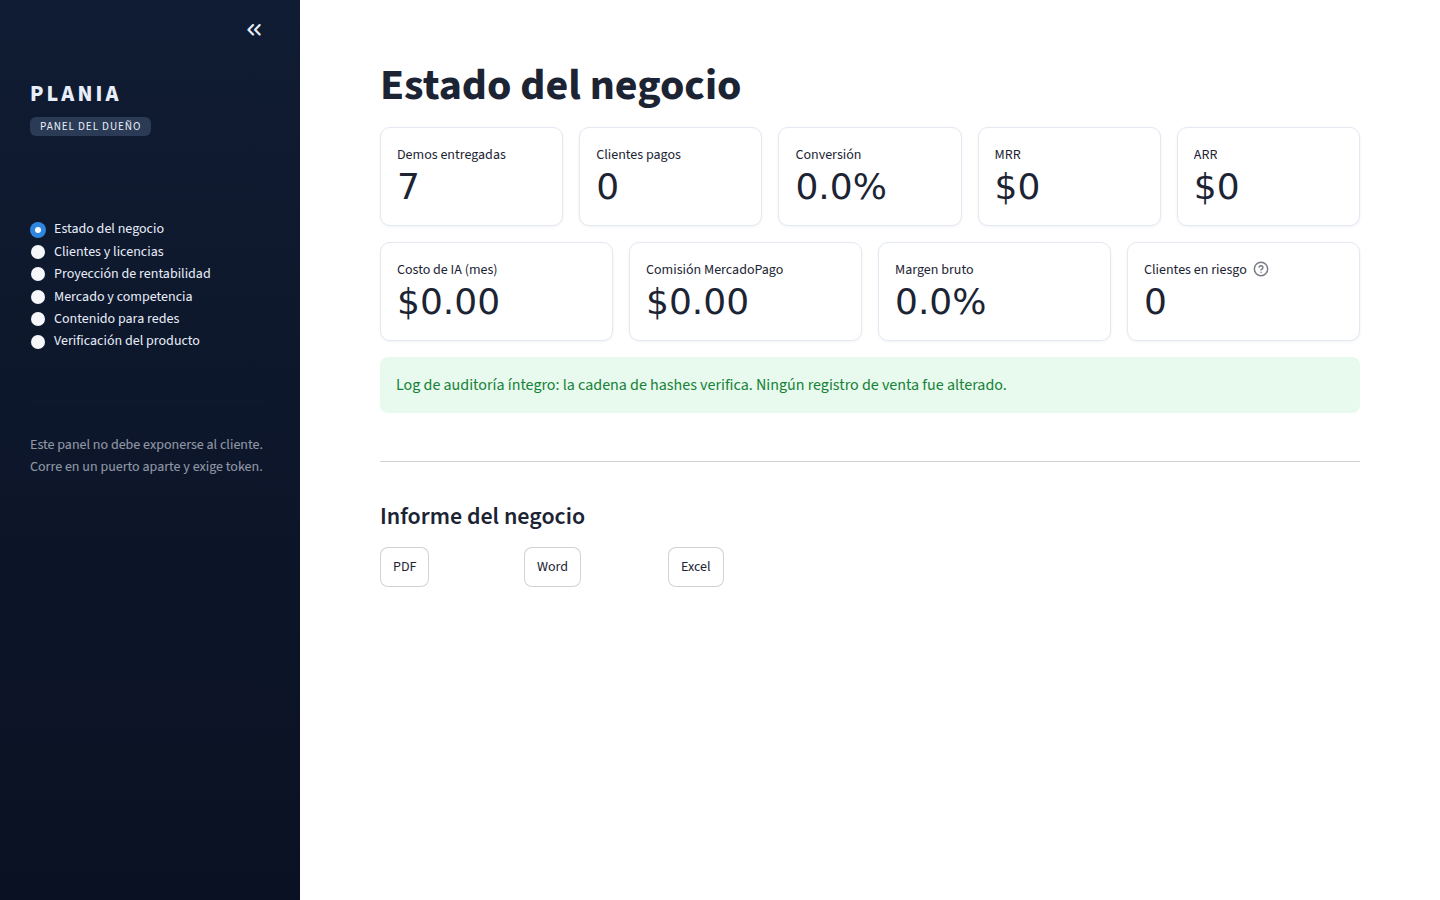
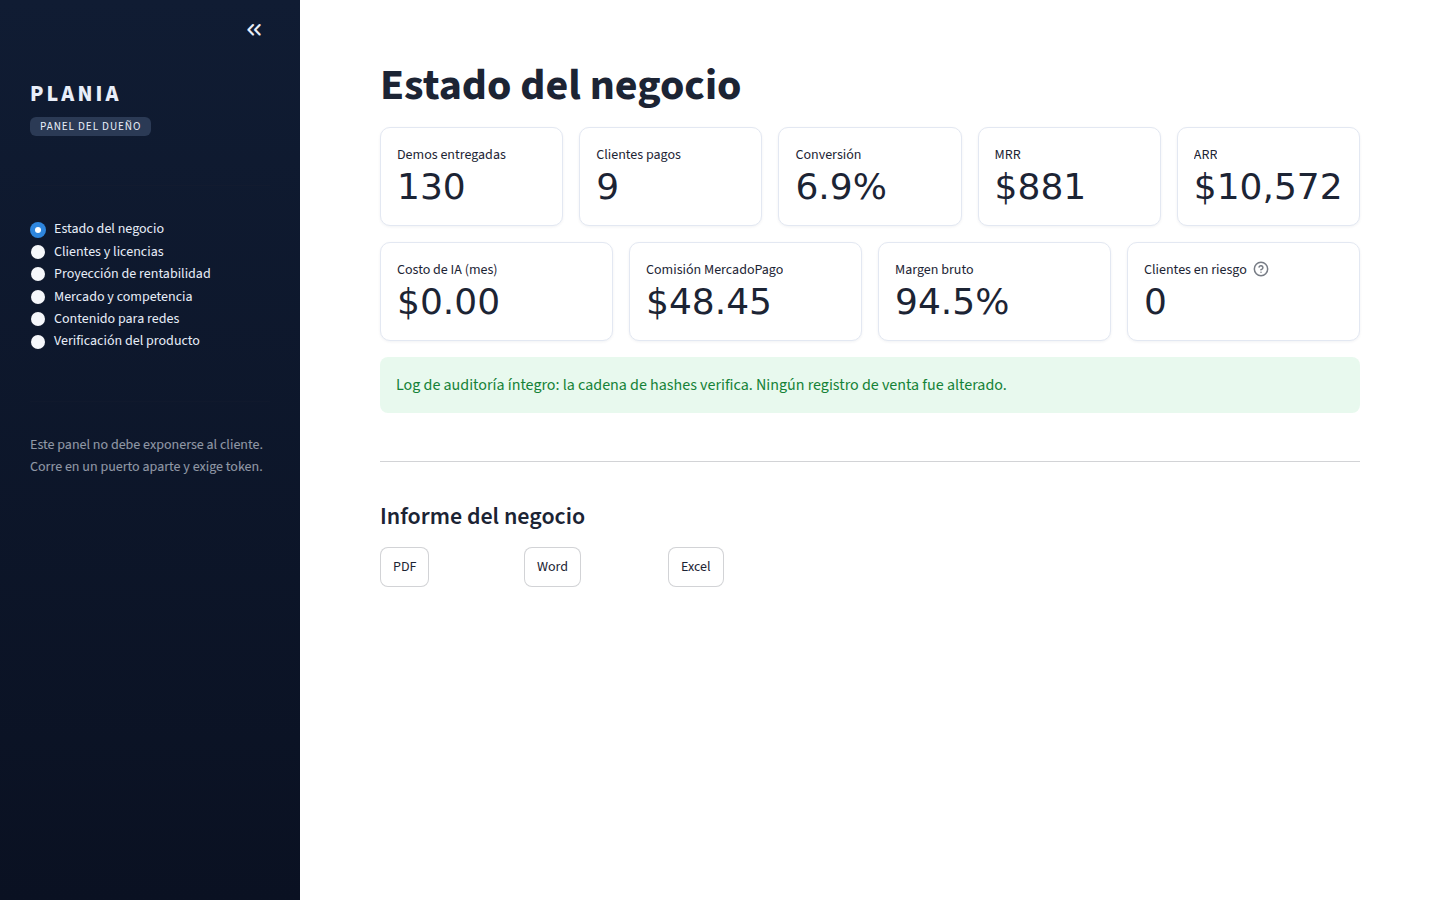
Regenerar las capturas del producto: estaban mostrando un bug ya corregido hace tres semanas
assets/capturas/*.png se sacaron a mano el 13/07 y quedaron sin tocar. El
03/08 (27c552a) se corrigió `_fmt()` en app/app.py: con cinco tarjetas en
fila, Streamlit cortaba los montos a "$689,…" y el separador decimal
usaba punto en vez de coma. El código ya no tiene ese bug — las capturas
seguían mostrando exactamente eso, texto cortado a mitad de un número, en
la primera pantalla que ve cualquiera que abre el repo.

De paso, copiloto.png tenía el título de la página cortado por el borde
de la captura: se había sacado con un screenshot de viewport fijo en vez
de a la altura real del contenido.

sitio/actualizar_capturas.py deja de sacarlas a mano: levanta la app y el
panel del dueño de verdad, navega cada pantalla con Playwright (mismo
patrón que sitio/grabar_demo.py) y captura con full_page=True, así el
alto de la imagen lo decide el contenido y no un marco fijo. Sin un
script que las regenere, cualquier cambio de la interfaz las vuelve a
desincronizar en silencio como pasó acá.

Verificado aparte, sin cambios de código: los tres videos de la web
(web/assets/video/plania_demo_{es,en,pt}.mp4) ya tienen locución propia
en cada idioma —misma voz clonada, 85.96s exactos, pista de audio
independiente confirmada con ffmpeg— más subtítulos .vtt por idioma. Eso
ya estaba resuelto por sitio/doblar_video.py.

Pendiente, y es un proyecto aparte: el programa en sí (app/app.py,
app/owner.py, el copiloto, los exportes PDF/Word/Excel) es 100% español
[…]

diff --git a/sitio/actualizar_capturas.py b/sitio/actualizar_capturas.py
@@ -1,0 +1,215 @@
+# © 2026 Martín Viera. Todos los derechos reservados.
+"""
+Plania · Regenera las capturas de pantalla del producto
+=========================================================
+Deja `assets/capturas/*.png` sacadas de la app REAL corriendo, con
+`page.screenshot(full_page=True)`: la altura de la captura la decide el
+contenido de la página, así que un título o una tabla no pueden quedar
+cortados por un marco fijo. Es la misma idea que ya usa
+`sitio/grabar_demo.py` para el video, aplicada a capturas fijas.
+
+    python3 sitio/actualizar_capturas.py
+
+Por qué hacía falta un script y no bastaba con sacarlas a mano una vez: las
+diez capturas de `assets/capturas/` se habían tomado el 13/07 y quedaron sin
+tocar. El 03/08 se corrigió `_fmt()` en `app/app.py` —los montos se
+abreviaban a K/M porque Streamlit los cortaba con "…" en una fila de cinco
+tarjetas— pero nadie volvió a sacar las capturas: seguían mostrando el
+`$689,…` que el propio código ya no produce. Sin un script que las
+regenere, cualquier cambio de la interfaz vuelve a desincronizarlas en
+silencio.
+"""
+from __future__ import annotations
+
+import os
+import subprocess
+import sys
+import time
+
+RAIZ = os.path.dirname(os.path.dirname(os.path.abspath(__file__)))
+SALIDA = os.path.join(RAIZ, "assets", "capturas")
+ANCHO = 1440
+
+PUERTO_APP = int(os.environ.get("PLANIA_PUERTO_CAPTURAS", "8711"))
+PUERTO_OWNER = int(os.environ.get("PLANIA_PUERTO_CAPTURAS_OWNER", "8601"))
+TOKEN_OWNER = "captura-" + os.urandom(4).hex()
+
+# (etiqueta del menú, archivo de salida, acción extra opcional)
+PAGINAS_APP = [
+    ("Inicio", "inicio.png", None),
+    ("Panel ejecutivo", "panel.png", None),
+    ("Stock y reposición", "stock.png", None),
+    ("Zonas y negocios", "zonas.png", None),
+    ("Ofertas y sugerencias", "ofertas.png", None),
+    ("Copiloto IA", "copiloto.png", "consulta"),
+    ("Planes y licencia", "planes.png", None),
+]
+CONSULTA = "¿qué ofertas armo esta semana?"
+
+PAGINAS_OWNER = [
+    ("Estado del negocio", "owner_negocio.png", None),
+    ("Proyección de rentabilidad", "owner_rentabilidad.png", None),
+    ("Verificación del producto", "owner_verificacion.png", "verificar"),
+]
+
+
+def _esperar(url: str, intentos: int = 90) -> bool:
+    import urllib.request
+    for _ in range(intentos):
+        try:
+            urllib.request.urlopen(url, timeout=1)
+            return True
+        except Exception:
+            time.sleep(1)
+    return False
+
+
+def _levantar(script: str, puerto: int, env_extra: dict) -> subprocess.Popen:
+    env = dict(os.environ, **env_extra)
+    return subprocess.Popen(
+        [sys.executable, "-m", "streamlit", "run", script,
+         "--server.port", str(puerto), "--server.headless", "true"],
+        cwd=RAIZ, env=env,
+        stdout=subprocess.DEVNULL, stderr=subprocess.DEVNULL)
+
+
+def _capturar(pagina, etiqueta: str, archivo: str, extra: str | None) -> None:
+    try:
+        pagina.get_by_text(etiqueta, exact=True).first.click()
+    except Exception as e:
+        print(f"  ! no pude abrir '{etiqueta}': {e}")
+        return
+    time.sleep(2.5)
+
+    if extra == "consulta":
+        try:
+            caja = pagina.get_by_placeholder("Escribí tu consulta…")
+            caja.click()
+            caja.fill(CONSULTA)
+            pagina.keyboard.press("Enter")
+            time.sleep(6)   # el copiloto local responde solo, sin red
+        except Exception as e:
+            print(f"  ! consulta del copiloto: {e}")
+    elif extra == "verificar":
+        try:
+            pagina.get_by_text("Ejecutar verificación end-to-end", exact=True).click()
+            # Corre 13+ controles reales contra el motor (carga de datos,
+            # sugerencias, copiloto, exportes, rutas): más lento que un
+            # simple re-render, y un tiempo fijo corto dejaba la tabla de
+            # resultados vacía en la captura. "detalle" es la cabecera de esa
+            # tabla — sólo existe una vez que el resultado ya se dibujó.
+            # state="attached" y no "visible": la grilla la pinta un canvas
+            # (glide-data-grid), así que la cabecera real vive en una capa de
+            # accesibilidad que Playwright considera oculta a propósito.
+            pagina.get_by_text("detalle", exact=True).wait_for(
+                state="attached", timeout=20000)
+            time.sleep(2)
+        except Exception as e:
+            print(f"  ! no se pudo ejecutar la verificación: {e}")
+
+    # full_page=True: la captura sigue al contenido real, no a un marco de
+    # alto fijo — así un título no puede quedar cortado en el borde.
+    destino = os.path.join(SALIDA, archivo)
+    pagina.screenshot(path=destino, full_page=True)
+    print(f"  -> {os.path.relpath(destino, RAIZ)}")
+
+
+def _aceptar_eula(pagina) -> None:
+    """Tilda y confirma el EULA si la instancia todavía no lo tiene aceptado.
+
+    Se acepta una sola vez por corrida del script: `EULA_ACEPTADA` queda en
+    la configuración persistida del servidor (no en la sesión del navegador),
+    así que sesiones siguientes contra el mismo proceso ya no la muestran.
+    """
+    try:
+        casilla = pagina.get_by_text("Leí y acepto los términos de uso de Plania.")
+        casilla.wait_for(timeout=4000)
+    except Exception:
+        return   # ya estaba aceptado: el menú se ve directo
+    casilla.click()
+    pagina.get_by_text("Continuar", exact=True).click()
+    time.sleep(2)
+
+
+def _sesion(navegador, puerto: int, ancho: int):
+    contexto = navegador.new_context(viewport={"width": ancho, "height": 900})
+    pagina = contexto.new_page()
+    pagina.goto(f"http://localhost:{puerto}", wait_until="networkidle")
+    time.sleep(4)
+    _aceptar_eula(pagina)
+    time.sleep(2)   # que termine de cargar los datos y dibujar los primeros gráficos
+    return contexto, pagina
+
+
+def _refrescar_demo() -> None:
+    """Reinicia la demo de 7 días de esta instancia si ya venció.
+
+    Las capturas son la cara del producto en el README: tienen que mostrar
+    el panel funcionando, no el cartel de "demo vencida" que deja cualquier
+    corrida vieja de la app o de la suite de tests en esta misma máquina.
+    """
+    sys.path.insert(0, RAIZ)
+    from datetime import datetime, timezone
+
+    from plania import config as pconfig
+    pconfig.guardar_extra("DEMO_INICIO", datetime.now(timezone.utc).isoformat())
+
+
+def main() -> int:
+    from playwright.sync_api import sync_playwright
+
+    os.makedirs(SALIDA, exist_ok=True)
+    if not os.path.exists(os.path.join(RAIZ, "data", "erp_demo.db")):
+        print("Falta data/erp_demo.db. Corré antes: python3 data/generate_dataset.py --seed 42")
+        return 1
+    _refrescar_demo()
+
+    print(f"[app] levantando en :{PUERTO_APP}…")
+    proc_app = _levantar("app/app.py", PUERTO_APP, {})
+    print(f"[owner] levantando en :{PUERTO_OWNER}…")
+    proc_owner = _levantar("app/owner.py", PUERTO_OWNER, {"PLANIA_OWNER_TOKEN": TOKEN_OWNER})
+
+    try:
+        if not _esperar(f"http://localhost:{PUERTO_APP}"):
+            print("[app] no arrancó a tiempo.")
+            return 1
+        if not _esperar(f"http://localhost:{PUERTO_OWNER}"):
+            print("[owner] no arrancó a tiempo.")
+            return 1
+
+        with sync_playwright() as p:
+            ejecutable = os.environ.get("PLANIA_CHROMIUM", "/opt/pw-browsers/chromium")
+            navegador = (p.chromium.launch(executable_path=ejecutable)
+                         if os.path.exists(ejecutable) else p.chromium.launch())
+
+            print("\n[capturas] app del cliente")
+            ctx, pag = _sesion(navegador, PUERTO_APP, ANCHO)
+            for etiqueta, archivo, extra in PAGINAS_APP:
+                _capturar(pag, etiqueta, archivo, extra)
+            ctx.close()
+
+            print("\n[capturas] panel del dueño")
+            ctx, pag = _sesion(navegador, PUERTO_OWNER, ANCHO)
+            campo = pag.get_by_label("Token de acceso")
+            campo.fill(TOKEN_OWNER)
+            pag.get_by_text("Entrar", exact=True).click()
+            time.sleep(2)
+            for etiqueta, archivo, extra in PAGINAS_OWNER:
+                _capturar(pag, etiqueta, archivo, extra)
+            ctx.close()
+
+            navegador.close()
+    finally:
+        proc_app.terminate()
+        proc_owner.terminate()
+        proc_app.wait(timeout=10)
+        proc_owner.wait(timeout=10)
+
+    print("\nListo. Revisá assets/capturas/ antes de commitear —"
+          " son las que se ven en README.md.")
+    return 0
+
+
+if __name__ == "__main__":
+    sys.path.insert(0, RAIZ)
+    raise SystemExit(main())
